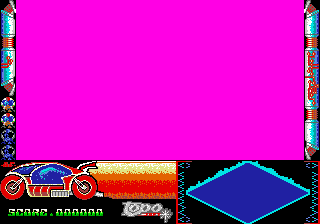
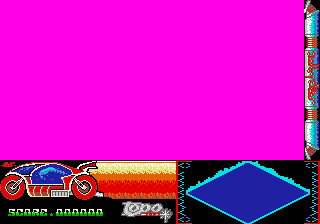
* hud in the lower part of the screen

Changed region(s): [[0.0, 0.0, 0.0625, 0.7188]]

diff --git a/src/hud.c b/src/hud.c
@@ -14,17 +14,19 @@ Map *hudMap;
 
 u16 displayHud(u16 vramBase) {
 
-    PAL_setPalette(PAL2, palette_hud.data, DMA);
+    PAL_setPalette(PAL2, palette_hud.data, DMA_QUEUE);
 
     u16 idx_tile_bg_hud = vramBase;
     u16 vram_idx = idx_tile_bg_hud;
 
-    VDP_loadTileSet(&tileset_hud, idx_tile_bg_hud, DMA);
-    vram_idx += tileset_hud.numTile;
+    VDP_loadTileSet(&tileset_hud_low, idx_tile_bg_hud, DMA_QUEUE);
+    vram_idx += tileset_hud_low.numTile;
 
-    hudMap = MAP_create(&map_hud, BG_A, TILE_ATTR_FULL(PAL2, FALSE, FALSE, FALSE, idx_tile_bg_hud));
+    VDP_setWindowVPos(TRUE, 20); // the last 8 rows
 
-    MAP_scrollTo(hudMap, 0, 0);
+    VDP_setTileMapEx(WINDOW, &tilemap_hud_low, //
+        TILE_ATTR_FULL(PAL2, TRUE, FALSE, FALSE, idx_tile_bg_hud), //
+        0, 20, 0, 0, 40, 8, DMA_QUEUE);
 
     return vram_idx;
 }

diff --git a/res/gfx_hud.h b/res/gfx_hud.h
@@ -3,6 +3,8 @@
 
 extern const Palette palette_hud;
 extern const TileSet tileset_hud;
-extern const MapDefinition map_hud;
+extern const TileMap tilemap_hud;
+extern const TileSet tileset_hud_low;
+extern const TileMap tilemap_hud_low;
 
 #endif // _RES_GFX_HUD_H_
